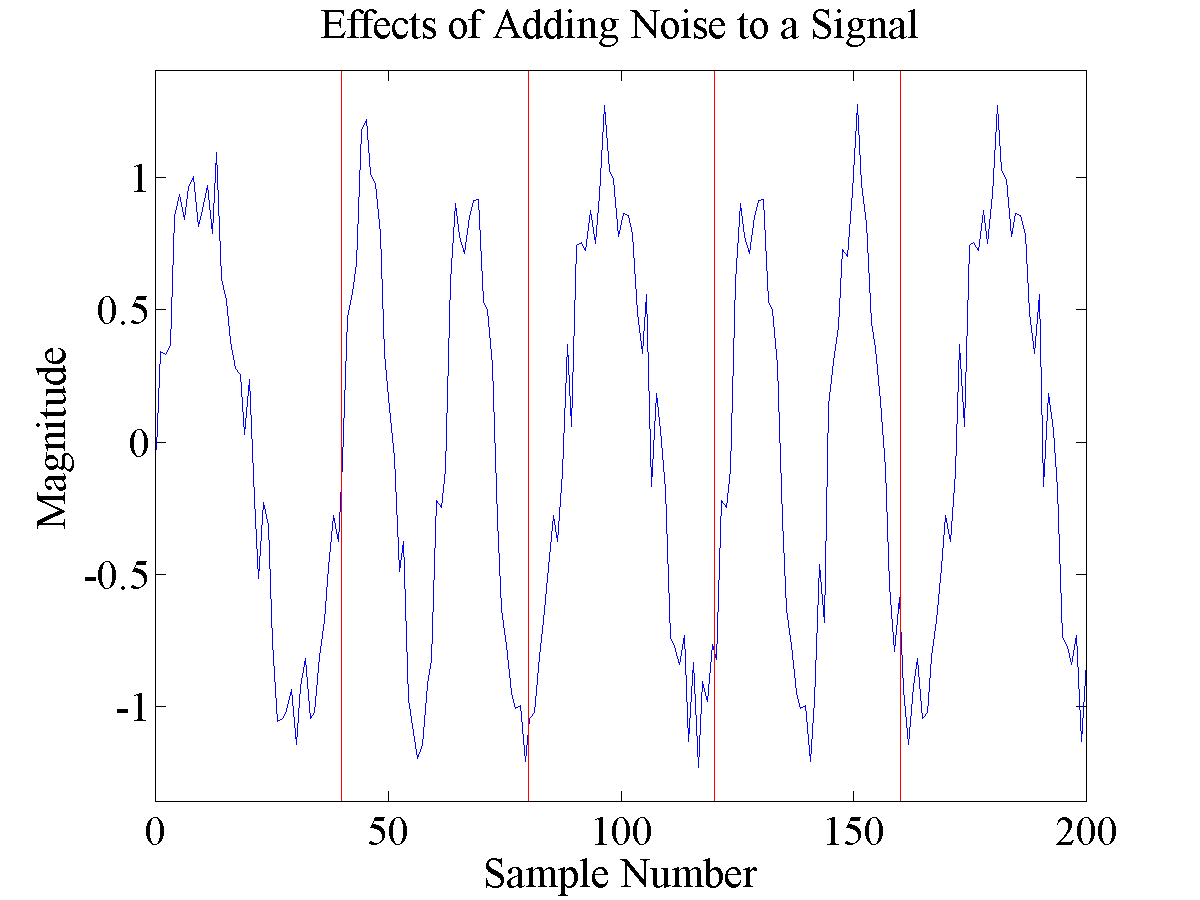
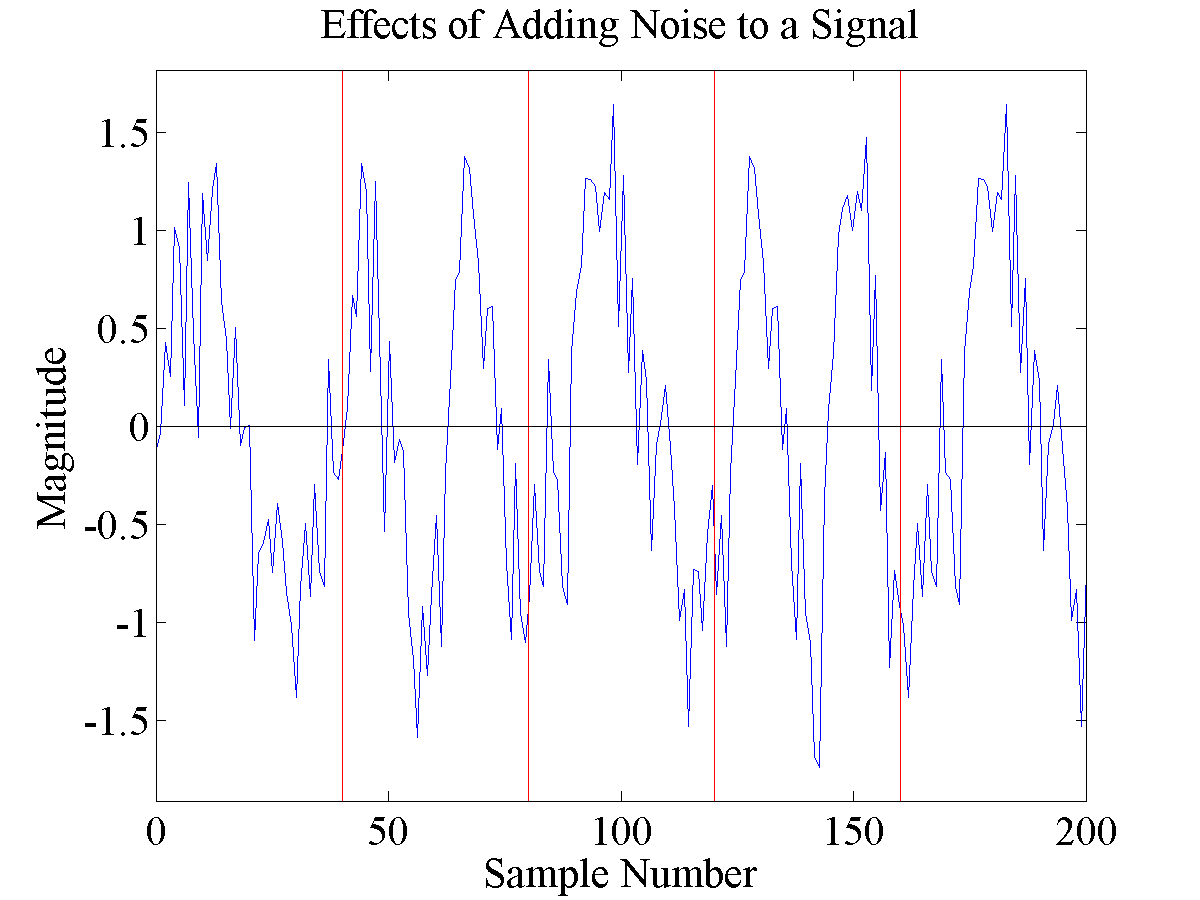
Editing the noise diagram to point out 1200 that might look like 2200

diff --git a/aprs.tex b/aprs.tex
@@ -15,7 +15,7 @@ Developed in the 1970's, the packet switching protocol X.25 was deployed on tele
 In this section, the AX.25 protocol will be discussed through comparison and contrast with X.25. One of the main differences between the X.25 and AX.25 is that when the specification is read, in addition to specifying the behavior of Layer 3, the behavior of Layer 2 is specified. Although this is somewhat implied for X.25, there are still separate documents for the specifications for each one of the layers. The specification for AX.25 very clearly defines the framing with starting and terminating flags as well as the networking and routing\,\cite{Beech1998}. This means that one specification and protocol defines two layers in the OSI model. Both X.25 and AX.25 use HDLC derivative for layer two, while AX.25 uses Bell 202 for layer one instead of the X.21 specification used by X.25.
 
 \section{Layer 2 - High-Level Data Link Control}
-Layer 2 of the OSI model which is responsible for framing the bits, or packets, from layer 3 is taken on by High-Level Data Link Control (HDLC) for APRS. The goal of HDLC is to make sure that when the data is received and passed up to Layer 3, it is error free, without loss, and in the correct order\,\cite{Javvin2006}. There are a few ways that HDLC accomplishes this, two of which are framing and the Frame Check Sequence (FCS). The framing occurs through the use of flags around the data. A flag is one byte and is hex 0x7E. For AX.25, common practice is to send multiple flags consecutively to give the transmitting radio time to key up and settle and to give receiving radios time for their squelch (an item that stops radio output when the desired signal strength is too low) to open. Since HDLC is an non-return to zero inverted (NRZI) encoding, no change in frequency corresponds to a 1 and a change in frequency corresponds to a 0. As such multiple 1s in a row make it hard to keep timing which is why bit stuffing is used. With the exception of the flag containing six consecutive 1s (0x7E = 01111110), if there are six or more consecutive 1s in the data packet, a zero will be stuffed after the fifth 1 to increase the clocking energy by forcing a frequency transition in the transmitted signal. In addition to increasing the clocking energy, bit stuffing also serves the more important purpose of making sure that there is nothing that can be confused with a flag in the data stream; the only place there will be six consecutive 1 symbols is exclusively in the flags that signal the start and end of the packet\,\cite{Horzepa1992}. See Figure \ref{bitStuffFrame} for and example showing what gets transmitted when the data is two bytes of 1s, this example data stream will require bit stuffing.
+Layer 2 of the OSI model which is responsible for framing the bits, or packets, from layer 3 is taken on by High-Level Data Link Control (HDLC) for APRS. The goal of HDLC is to make sure that when the data is received and passed up to Layer 3, it is error free, without loss, and in the correct order\,\cite{Javvin2006}. There are a few ways that HDLC accomplishes this, two of which are framing and the Frame Check Sequence (FCS). The framing occurs through the use of flags around the data. A flag is one byte and is hex 0x7E. For AX.25, common practice is to send multiple flags consecutively to give the transmitting radio time to key up and settle and to give receiving radios time for their squelch (an item that stops radio output when the desired signal strength is too low) to open. Since HDLC is an non-return to zero inverted (NRZI) encoding, no change in frequency corresponds to a 1 and a change in frequency corresponds to a 0. As such multiple 1s in a row make it hard to keep timing which is why bit stuffing is used. With the exception of the flag containing six consecutive 1s (0x7E = 01111110), if there are six or more consecutive 1s in the data packet, a zero will be stuffed after the fifth 1 to increase the clocking energy by forcing a frequency transition in the transmitted signal. In addition to increasing the clocking energy, bit stuffing also serves the more important purpose of making sure that there is nothing that can be confused with a flag in the data stream; the only place there will be six consecutive 1 symbols is exclusively in the flags that signal the start and end of the packet\,\cite{Horzepa1992}. See Table \ref{bitStuffFrame} for and example showing what gets transmitted when the data is two bytes of 1s, this example data stream will require bit stuffing.
 \begin{table}
 	\begin{center}
 		\begin{tabular}{ | l | c | }
@@ -44,6 +44,6 @@ With FSK and AFSK now introduced the AFSK used within Bell 202 can be described.
 \begin{figure}
   \centering
 	\includegraphics[width=0.75\linewidth]{images/Datasignalencodingbitstream0000.png} 
-	\caption[Example Bell 202 signal encoding the bit stream '0000'.]{Example Bell 202 signal encoding the bit stream '0000'. The bit is determined at the bit period boundary with a change in frequency representing a '0' and no change in frequency representing a '1'. Since a frequency transition occurs at every visible boundary in this plot (at samples 40, 80, 120, and 160) the underlying data is '0000'. Without knowing the frequency before sample 0 or after sample 200 no other bits can be determined.}
+	\caption{Example Bell 202 signal encoding the bit stream '0000'. The bit is determined at the bit period boundary with a change in frequency representing a '0' and no change in frequency representing a '1'. Since a frequency transition occurs at every visible boundary in this plot (at samples 40, 80, 120, and 160) the underlying data is '0000'. Without knowing the frequency before sample 0 or after sample 200 no other bits can be determined.}
 	\label{exampleBitStream}
 \end{figure}

diff --git a/demodchallenges.tex b/demodchallenges.tex
@@ -19,7 +19,7 @@ One such example of this is if the noise happened to also take on the form of a 
 \begin{figure}
   \centering
 	\includegraphics[width=0.75\linewidth]{images/EffectsofAddingNoisetoaSignal.png} 
-	\caption{An example Bell 202 signal with white noise added.}
+	\caption[An example Bell 202 signal with white noise added.]{An example Bell 202 signal with white noise added. The additional zero crossings at sample 9 in the first bit period and sample 169 in the last bit period will make these 1200Hz bit periods look more like 2200Hz signals.}
    \label{noiseExample}
 \end{figure}
 
